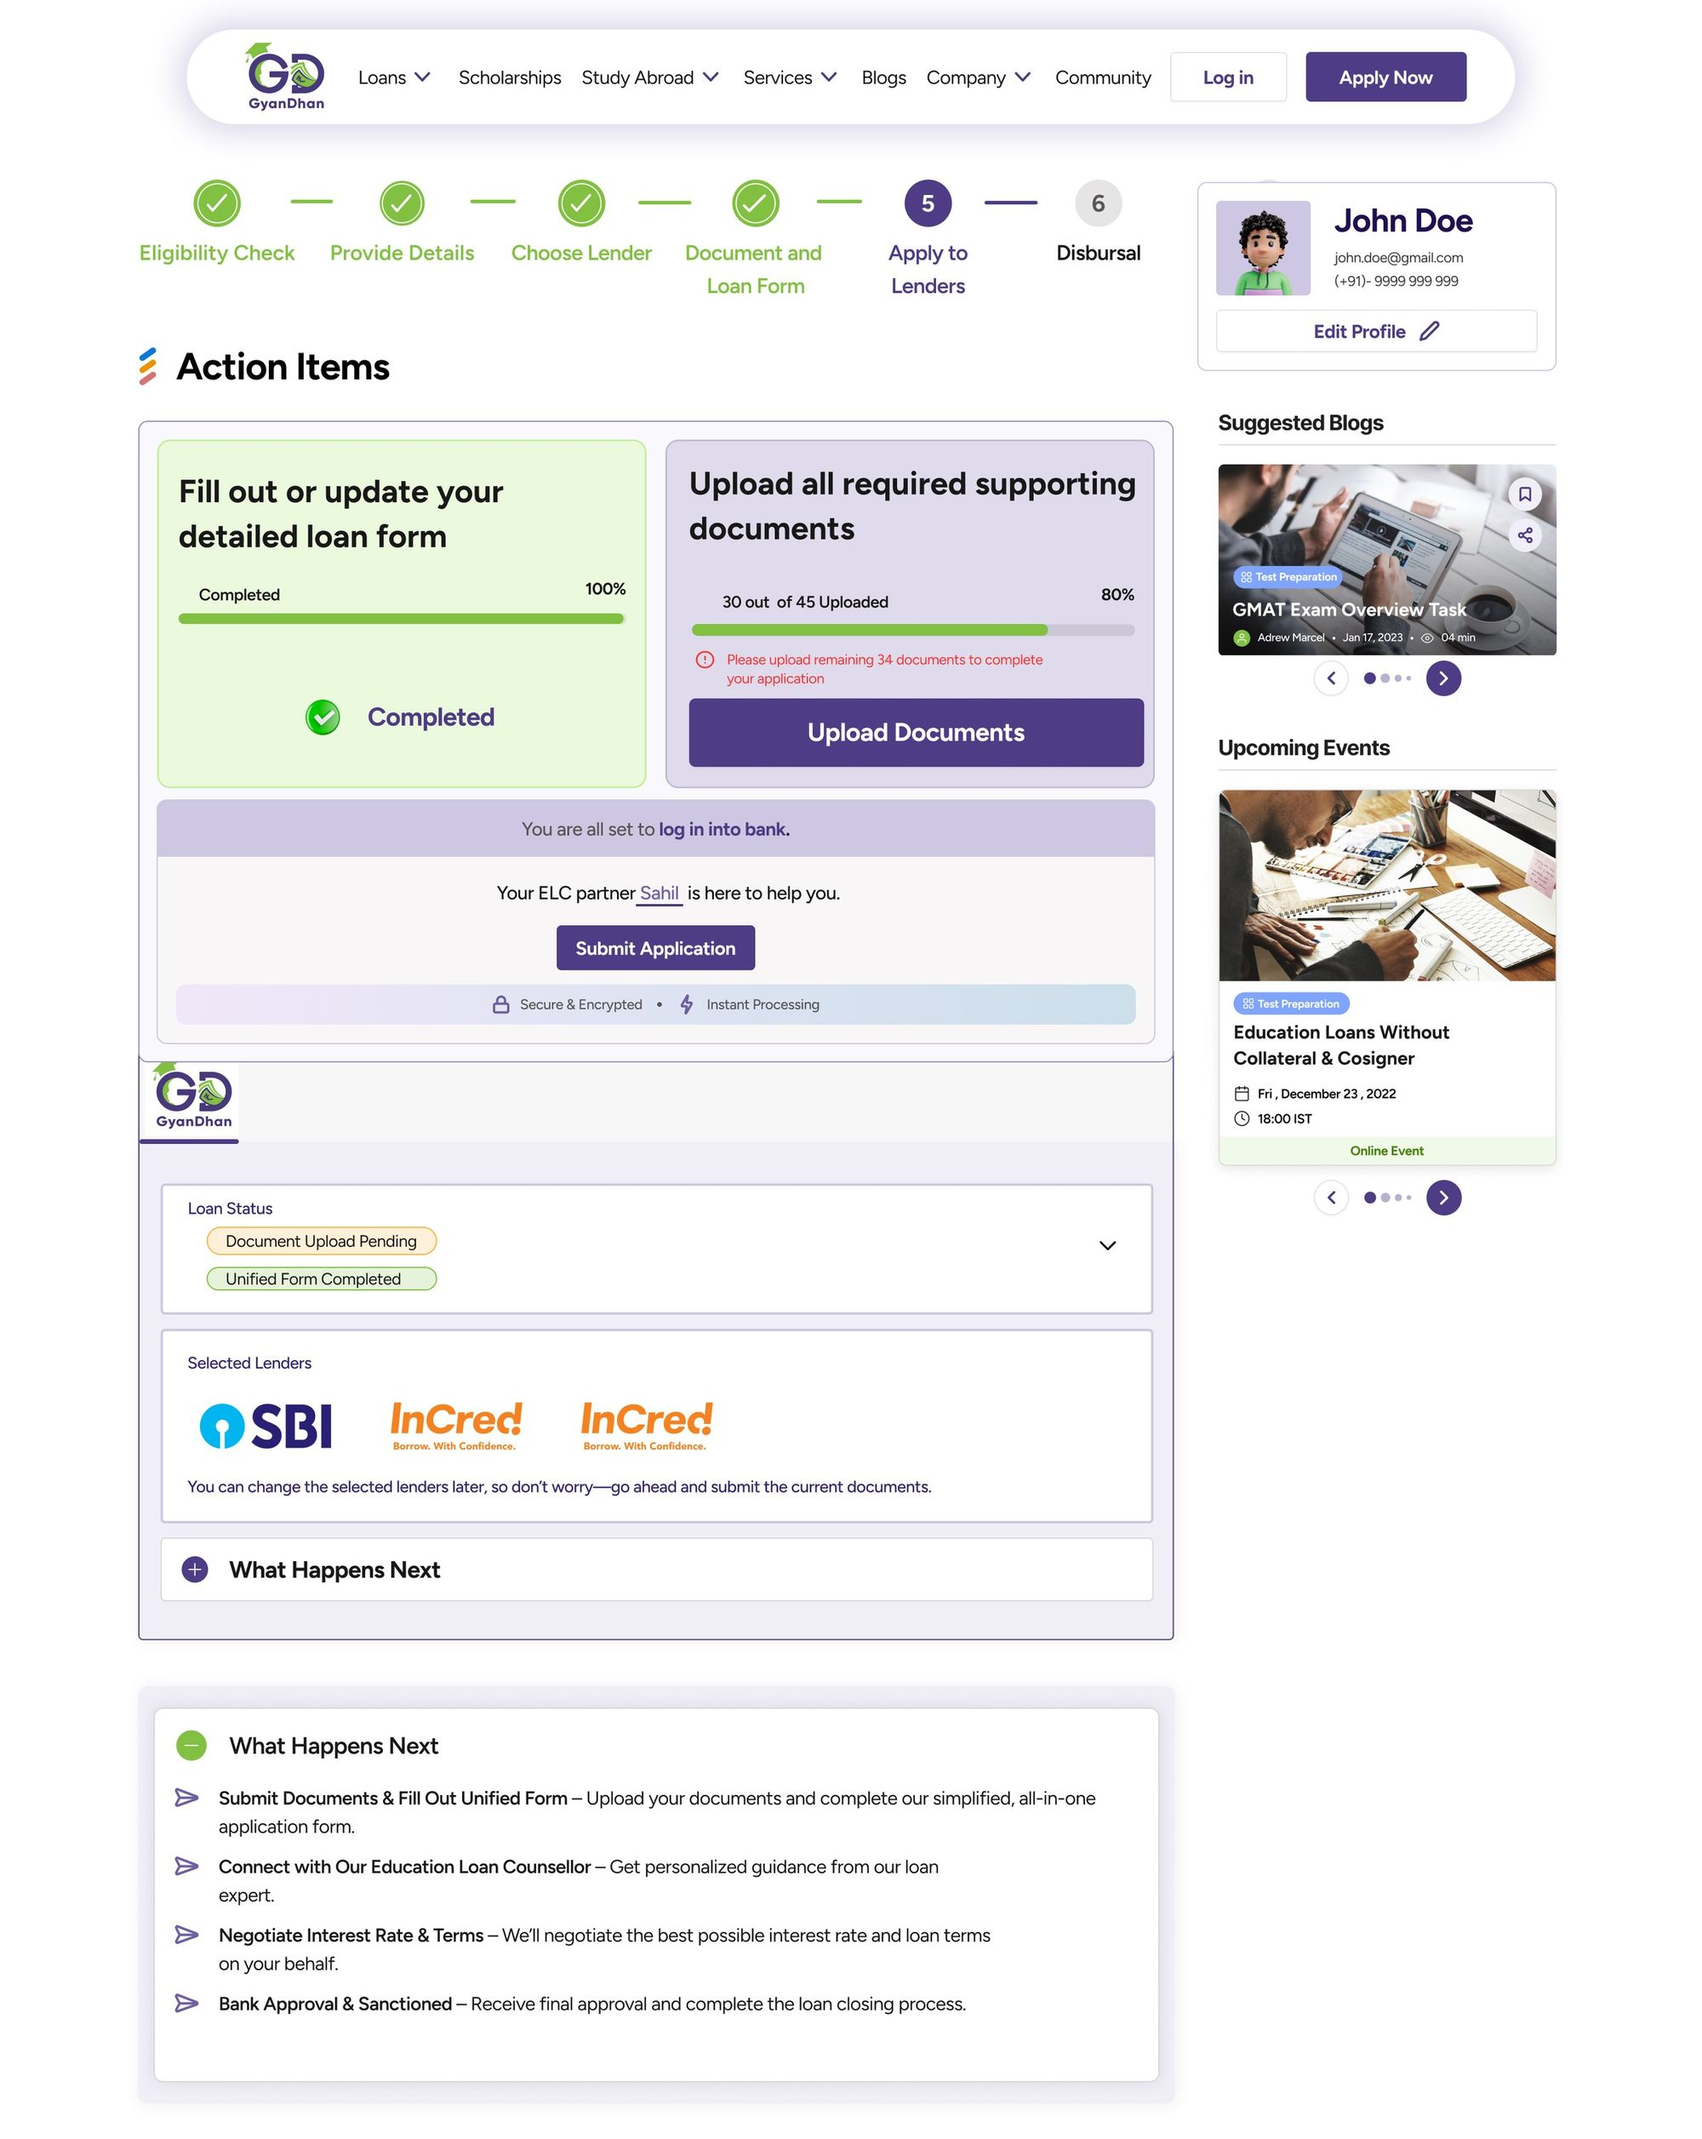
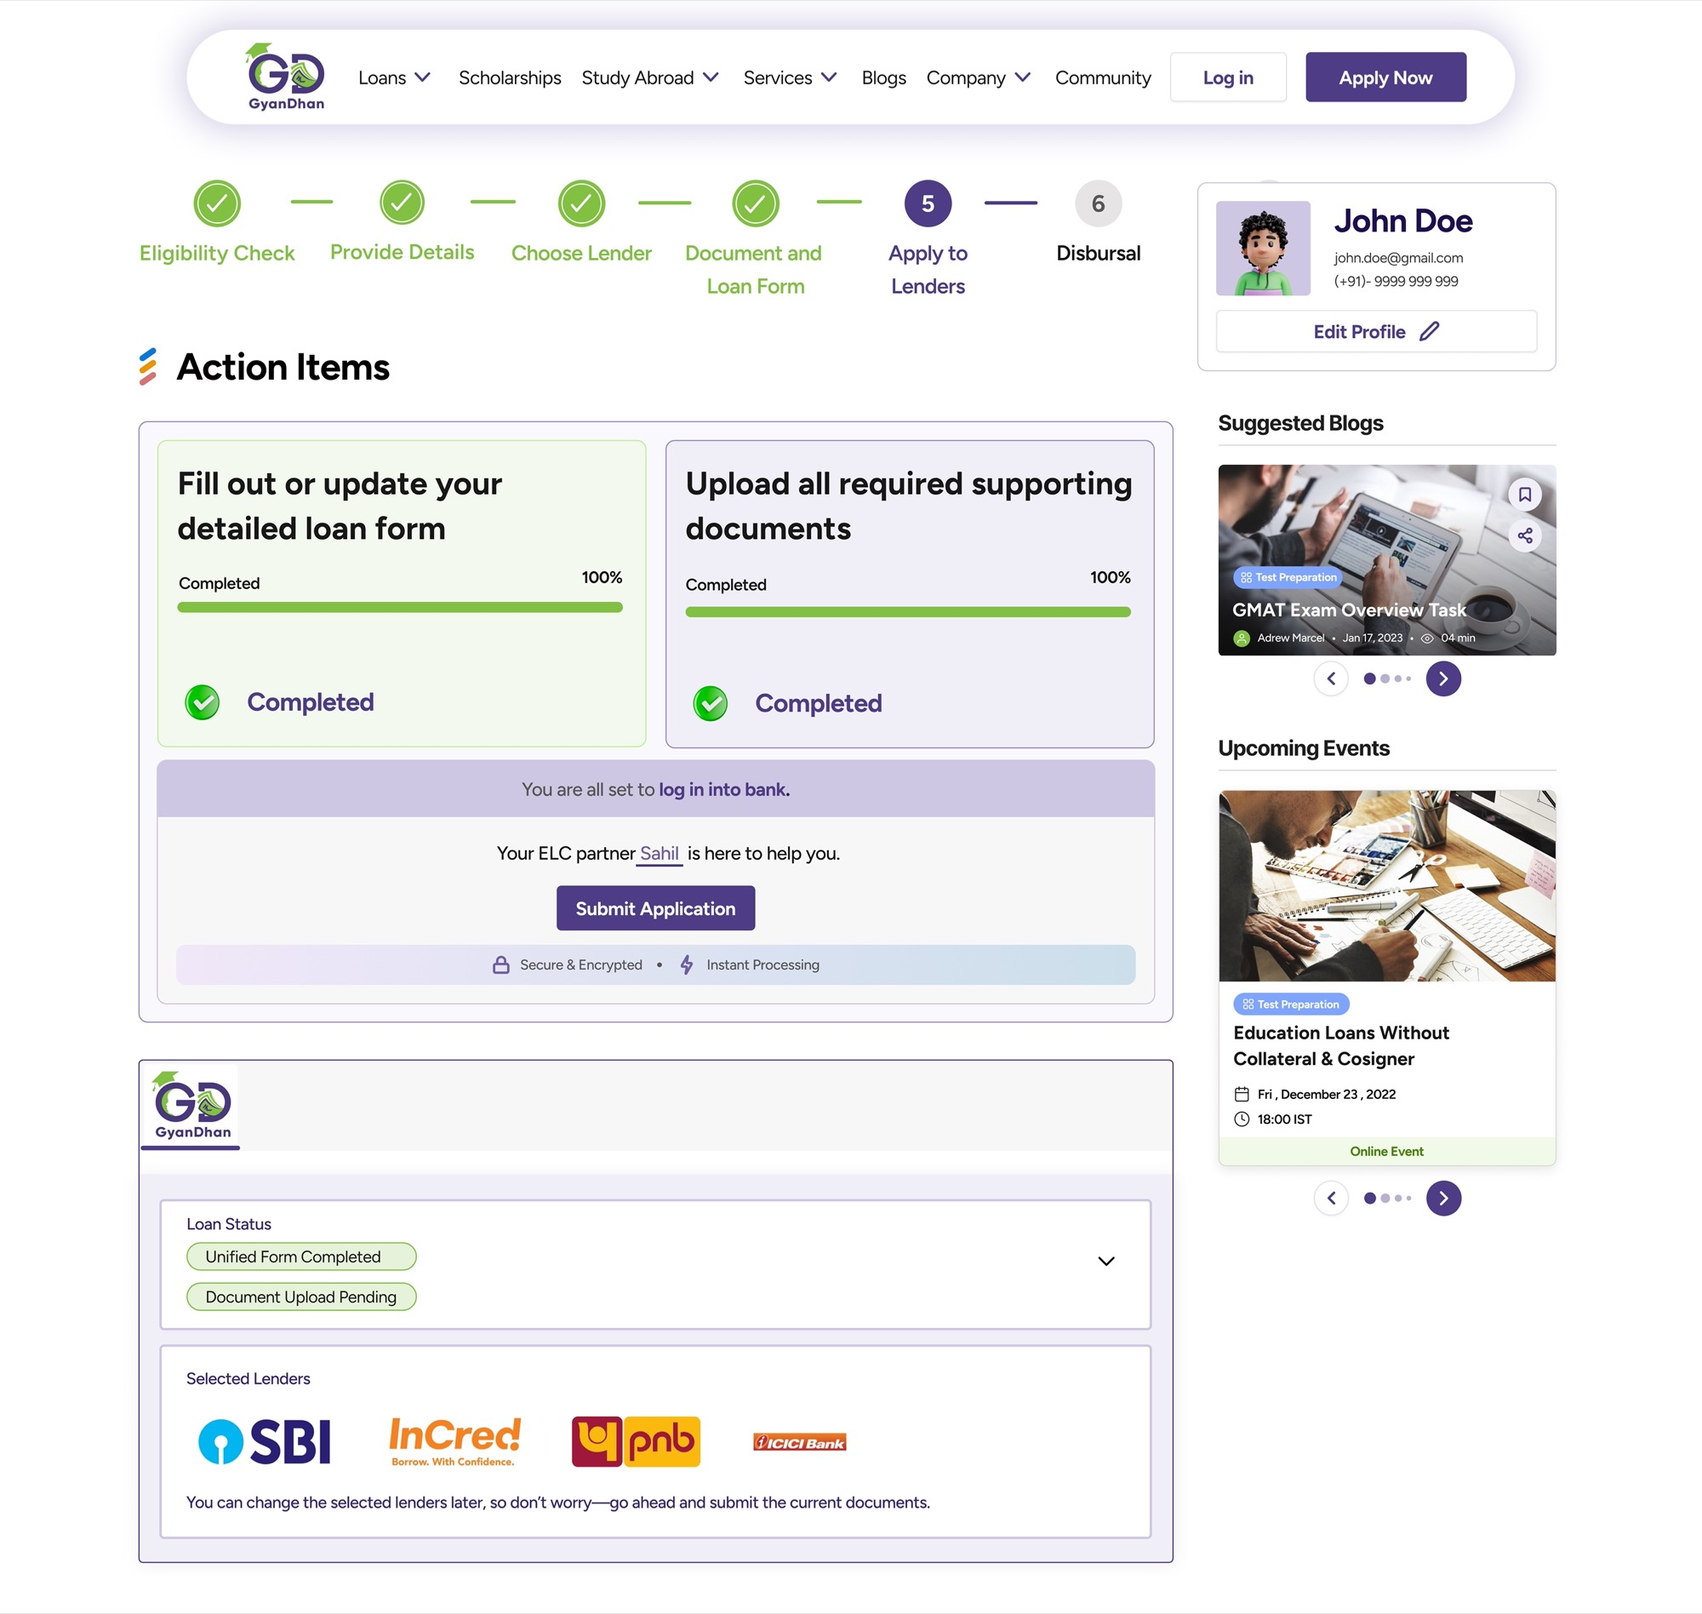
Update ELC submit application screenshot in loan journey case study
Cropped the new dashboard screenshot to exclude the site footer,
matching the framing of the original image.

Changed region(s): [[0.062, 0.0, 0.93, 0.9647]]

diff --git a/loan-journey.html b/loan-journey.html
@@ -718,7 +718,7 @@
     it gives an option to the user to self-identify.</p>
 </article>
 <figure class="figure wide">
-  <img src="loan-journey-assets/lj-16.jpg" width="2000" height="2513" loading="lazy" decoding="async" alt="ELC submit application">
+  <img src="loan-journey-assets/lj-16.jpg" width="2000" height="1896" loading="lazy" decoding="async" alt="ELC submit application">
 </figure>
 
 <article class="section read">
